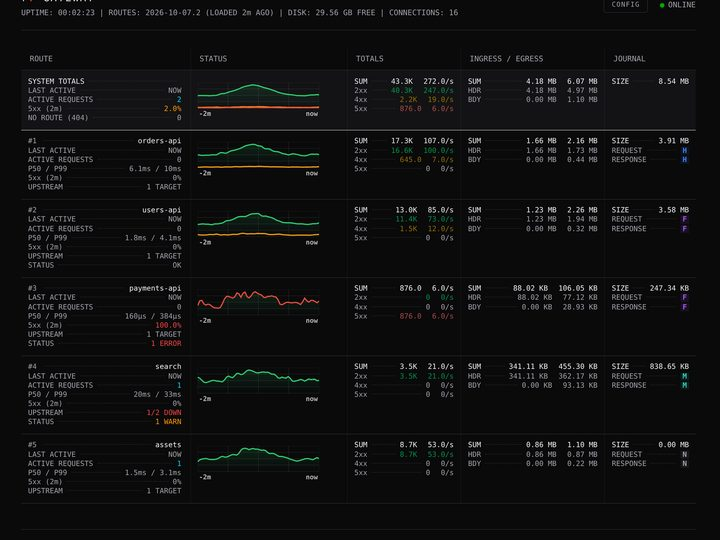
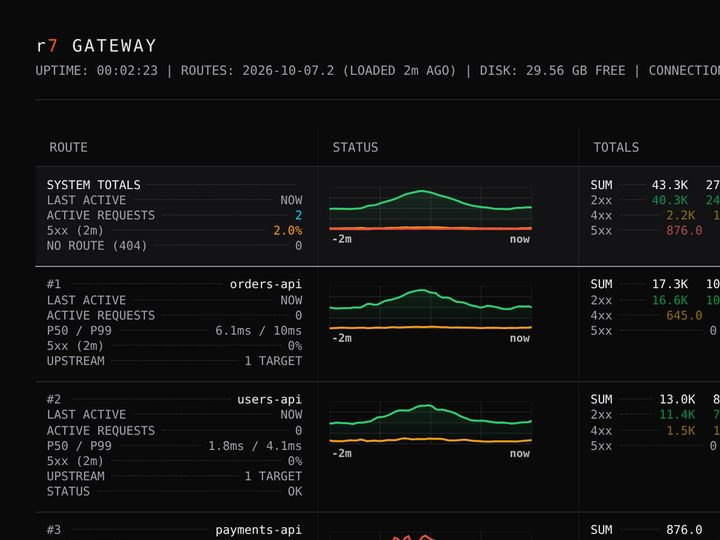
List: text-only for posts without a picture, readable screenshot crops, phone carousel
Claude-Session: https://claude.ai/code/session_01HVw6jrbEbAo7rFLV3SQRPd

diff --git a/docs/stylesheets/extra.css b/docs/stylesheets/extra.css
@@ -28,7 +28,7 @@
 
 /* The list is wider, so pictures fit beside the text; a post keeps one column at a length the eye can follow */
 .md-grid { max-width: 46rem; }
-.md-content--post, body:has(.md-content--post) .md-footer__inner { max-width: 38rem; }
+.md-content.md-content--post, body:has(.md-content--post) .md-footer__inner { max-width: 38rem; }
 .md-sidebar--primary, .md-sidebar--secondary, .md-header__button[for="__drawer"] { display: none !important; }
 .md-content { max-width: 100%; }
 .md-header__button.md-logo { display: inline-block !important; }
@@ -87,7 +87,7 @@
 body:not(:has(.md-content--post)) .md-footer__inner { display: none; }
 
 /* ---- The post list: text on the left, a picture on the right ---- */
-.kw-post { display: grid; grid-template-columns: minmax(0, 1fr) 12.5rem; gap: 0 1.8rem; align-items: start; }
+.kw-post { display: grid; grid-template-columns: minmax(0, 34rem) 12.5rem; justify-content: space-between; gap: 0 1.8rem; align-items: start; }
 .kw-post__text { min-width: 0; }
 .kw-post .md-post__header { margin: 0; }
 .md-post--excerpt .md-post__content h2 { font-size: 1.55em; line-height: 1.08; margin: .35em 0 .45em; }
@@ -104,16 +104,11 @@ body:not(:has(.md-content--post)) .md-footer__inner { display: none; }
 .kw-post__visual { display: block; aspect-ratio: 4 / 3; margin-top: .2rem; overflow: hidden; border: 1px solid var(--md-default-fg-color--lightest); background: var(--kw-surface); }
 .kw-post__visual img { display: block; width: 100%; height: 100%; object-fit: cover; transition: transform .35s ease; }
 .kw-post:hover .kw-post__visual img { transform: scale(1.04); }
-.kw-tile { display: flex; align-items: flex-end; height: 100%; padding: .8rem .9rem; box-sizing: border-box; border-top: 3px solid var(--ethlo-accent); }
-.kw-tile__label { font-family: "Inter Tight", system-ui, sans-serif; font-weight: 800; font-size: 1.15rem; line-height: 1; letter-spacing: -.03em; color: var(--md-default-fg-color); }
-.kw-post--archive .kw-tile { border-top-color: var(--md-default-fg-color--lighter); }
-.kw-post--archive .kw-tile__label { color: var(--md-default-fg-color--light); }
 .md-meta__item.kw-archive { color: var(--ethlo-accent); }
 
 @media screen and (max-width: 40em) {
   .kw-post { grid-template-columns: 1fr; }
   .kw-post__visual { order: -1; aspect-ratio: 16 / 9; margin: 0 0 .9rem; }
-  .kw-post__visual:has(.kw-tile) { display: none; }
 }
 
 /* ---- Start here: three cards above the list ---- */
@@ -130,3 +125,8 @@ body:not(:has(.md-content--post)) .md-footer__inner { display: none; }
 .kw-card__label { font-family: var(--md-code-font-family); font-size: .6rem; letter-spacing: .08em; text-transform: uppercase; color: var(--ethlo-accent); }
 .kw-card__title { font-family: "Inter Tight", system-ui, sans-serif; font-weight: 800; font-size: 1.05rem; line-height: 1.12; letter-spacing: -.03em; }
 .md-typeset a.kw-card:hover .kw-card__title { color: var(--ethlo-accent); }
+@media screen and (max-width: 40em) {
+  .kw-start__grid { display: flex; overflow-x: auto; scroll-snap-type: x mandatory; gap: .8rem; margin: 0 -.8rem; padding: 0 .8rem .4rem; scrollbar-width: none; }
+  .kw-start__grid::-webkit-scrollbar { display: none; }
+  .md-typeset a.kw-card { flex: 0 0 72%; scroll-snap-align: start; }
+}

diff --git a/overrides/partials/post.html b/overrides/partials/post.html
@@ -1,12 +1,11 @@
 {#-
   One post in the list: label line, title and excerpt on the left, a picture on the right.
   The picture is the post's `image` (a thumbnail made by scripts/cards.py); posts without one
-  get a tile with their category. Posts in the Archive category are labelled as such.
+  are text only. Posts in the Archive category are labelled as such.
 -#}
 {%- set meta = post.meta or {} -%}
 {%- set titles = post.categories | map(attribute="title") | list if post.categories else [] -%}
 {%- set archived = "Archive" in titles -%}
-{%- set topic = (titles | reject("equalto", "Archive") | first) or ("Archive" if archived else "Notes") -%}
 <article class="md-post md-post--excerpt kw-post{% if archived %} kw-post--archive{% endif %}">
   <div class="kw-post__text">
     <header class="md-post__header">
@@ -20,7 +19,7 @@
           {% if archived %}
             <li class="md-meta__item kw-archive">From the archive</li>
           {% endif %}
-          {% if post.categories %}
+          {% if titles | reject("equalto", "Archive") | list %}
             <li class="md-meta__item">
               {%- for category in post.categories if category.title != "Archive" -%}
                 <a href="{{ category.url | url }}" class="md-meta__link">{{ category.title }}</a>
@@ -52,11 +51,9 @@
       {% endif %}
     </div>
   </div>
-  <a class="kw-post__visual" href="{{ post.url | url }}" tabindex="-1" aria-hidden="true">
-    {% if meta.image %}
+  {% if meta.image %}
+    <a class="kw-post__visual" href="{{ post.url | url }}" tabindex="-1" aria-hidden="true">
       <img src="{{ meta.image | url }}" alt="" loading="lazy" width="720" height="540" />
-    {% else %}
-      <span class="kw-tile"><span class="kw-tile__label">{{ topic }}</span></span>
-    {% endif %}
-  </a>
+    </a>
+  {% endif %}
 </article>

diff --git a/scripts/cards.py b/scripts/cards.py
@@ -106,6 +106,16 @@ def share_card(title, label, picture, out):
     card.save(out, optimize=True)
 
 
+def make_thumb(picture, out):
+    """A 4:3 thumbnail. Large screenshots are cropped to their top-left corner, so the
+    thumbnail shows readable detail instead of the whole screen shrunk to noise."""
+    img = Image.open(picture).convert("RGB")
+    if picture.suffix.lower() in (".png", ".webp") and img.width >= 1200:
+        w = int(img.width * 0.6)
+        img = img.crop((0, 0, w, min(img.height, int(w * 3 / 4))))
+    ImageOps.fit(img, (720, 540), Image.LANCZOS).save(out, quality=82, optimize=True, progressive=True)
+
+
 def main():
     (DOCS / "assets/social").mkdir(parents=True, exist_ok=True)
     (DOCS / "assets/thumbs").mkdir(parents=True, exist_ok=True)
@@ -129,7 +139,7 @@ def main():
         fm = set_key(fm, "share", f"assets/social/{name}.png")
         if picture:
             thumb = DOCS / f"assets/thumbs/{name}.jpg"
-            ImageOps.fit(Image.open(picture).convert("RGB"), (720, 540), Image.LANCZOS).save(thumb, quality=82, optimize=True, progressive=True)
+            make_thumb(picture, thumb)
             if not re.search(r"^image:", fm, re.M):
                 fm = set_key(fm, "image", f"assets/thumbs/{name}.jpg")
         if not re.search(r"^description:", fm, re.M):
